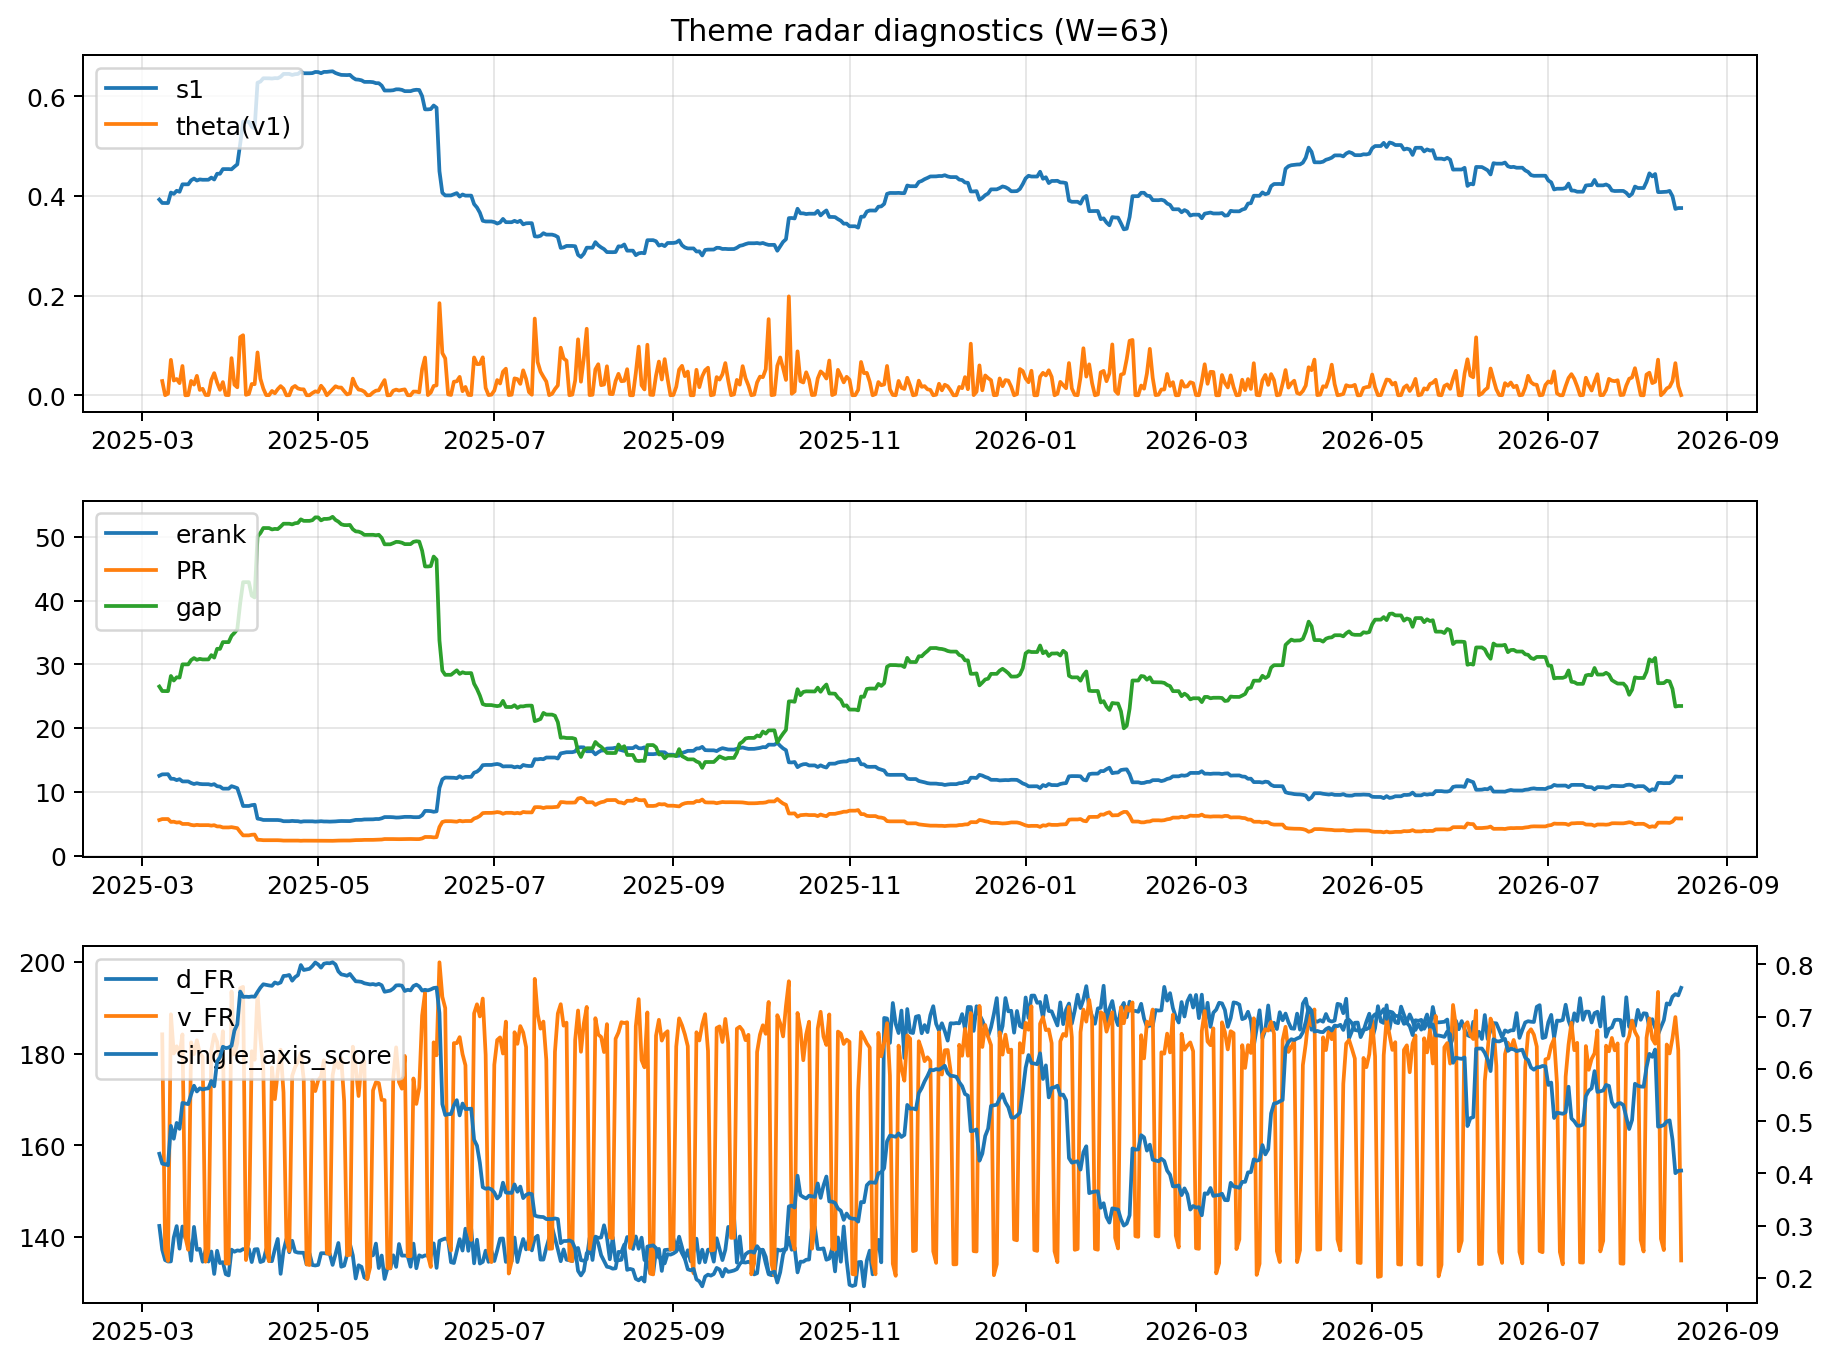
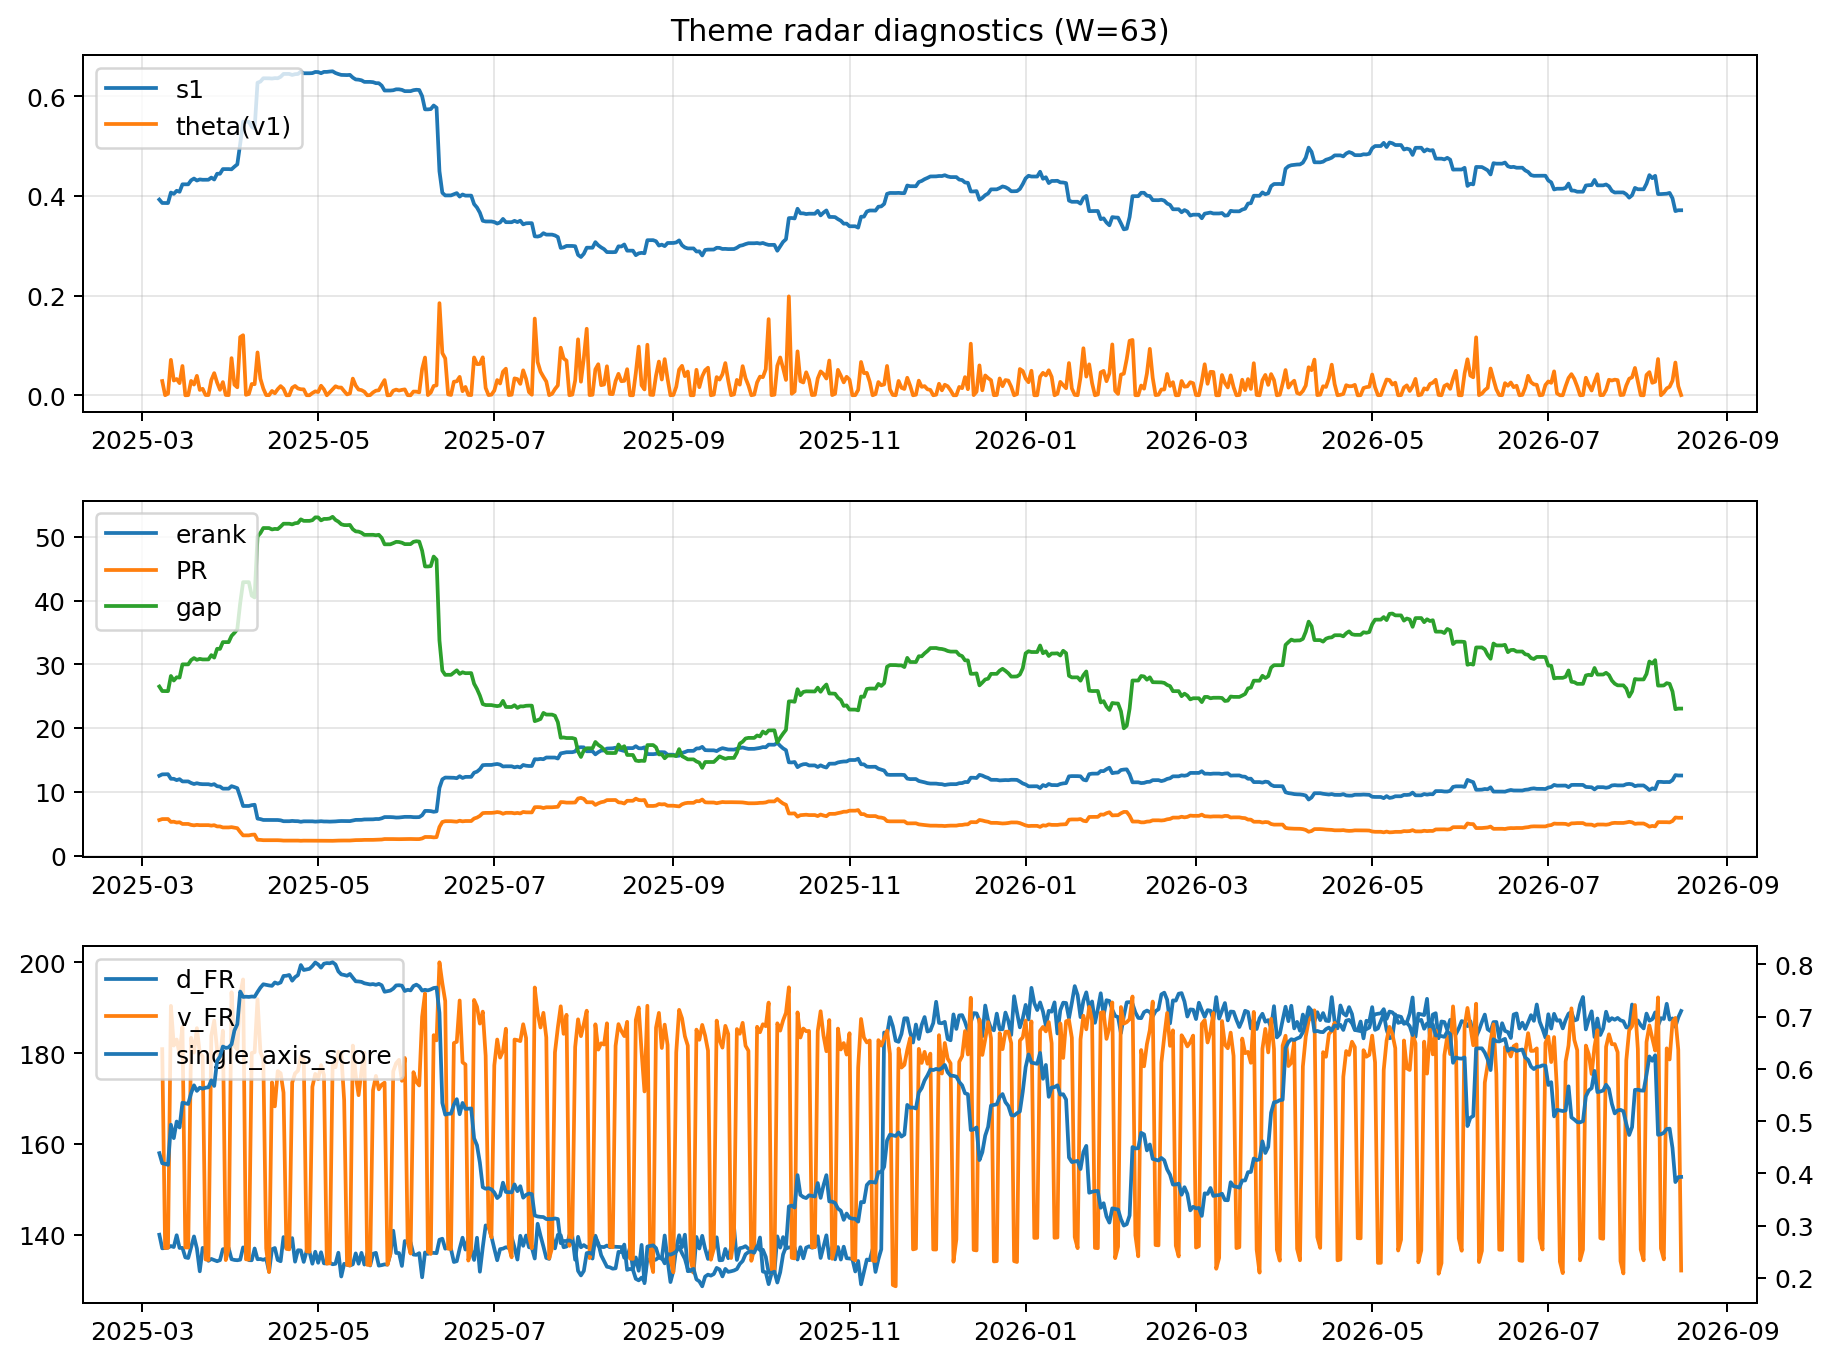
log: 2026-08-16 | sha256:b8503f48b523d3f5ec09501ded85816984ab3dff79d64f96f72c8e53d19d3c06

diff --git a/logs/2026-08-16.md b/logs/2026-08-16.md
@@ -3,44 +3,44 @@
 ![diagnostic W63](../assets/diagnostic/2026-08-16_W63.png)
 
 ## Leaders (v1) — W=63
-- **Nuclear_Uranium** (0.0900837035563562)
-- Semis (0.0742944965787559)
-- Quantum (0.0645063588399254)
+- **Nuclear_Uranium** (0.0883090565298773)
+- Semis (0.0751735810985604)
+- Quantum (0.065046591627122)
 
 ## Challengers — W=63
-**v2:** Rates (0.0854596220395814), Software_Cloud (0.0793445278197772), Semis (0.0752474333303282)
-**v3:** Metals (0.1190206888445331), Crypto (0.076979530439989), MegaCap_AI (0.0663007084570029)
+**v2:** Rates (0.0855116211547264), Software_Cloud (0.0802919993782086), Semis (0.0733703948939315)
+**v3:** Metals (0.1162936685283868), Crypto (0.0746757736369294), MegaCap_AI (0.0701998968860247)
 
 ## Migration (20D slope) — W=63
 **Top risers:**
-- axis_Commodities: 0.0005578473998093
-- axis_Semis: 0.000389838940704
-- axis_Quantum: 0.0003671792202733
-- axis_Grid_Power: 0.0002204295498298
-- axis_Sector_Energy: 0.0002113441980691
-- axis_Sector_Health: 0.0001740083135849
-- axis_Space: 0.0001503889963805
-- axis_Genomics_Bio: 0.0001469739161894
-- axis_DataCenter_Infra: 0.0001124710791575
-- axis_Defense: 0.0001104146761799
+- axis_Commodities: 0.0005572083609859
+- axis_Semis: 0.0004227036560485
+- axis_Quantum: 0.0003841095511496
+- axis_Grid_Power: 0.0002463438771795
+- axis_Sector_Energy: 0.0002140268041749
+- axis_Sector_Health: 0.0001797481636982
+- axis_Space: 0.0001618120883494
+- axis_Robotics: 0.0001187324686593
+- axis_DataCenter_Infra: 0.0001183418445709
+- axis_Genomics_Bio: 0.0001161158190717
 
 **Top fallers:**
-- axis_Credit: -0.0001212685344555
-- axis_Sector_Materials: -0.000131176245315
-- axis_USD: -0.0001440620095991
-- axis_Sector_Comm: -0.0001531486157973
-- axis_Vol: -0.0001668725056837
-- axis_MegaCap_AI: -0.0002311698399268
-- axis_Miners: -0.000254826328696
-- axis_Crypto: -0.0002642425419823
-- axis_Rates: -0.0004653761992431
-- axis_Metals: -0.0006717357003707
+- axis_Sector_Materials: -0.0001347972137371
+- axis_USD: -0.0001427585717352
+- axis_Sector_Comm: -0.0001596170918335
+- axis_Vol: -0.0001649248046189
+- axis_Credit: -0.0001794603277228
+- axis_MegaCap_AI: -0.0002238347332747
+- axis_Miners: -0.0002514865225693
+- axis_Crypto: -0.0002679550247914
+- axis_Rates: -0.0004692731651381
+- axis_Metals: -0.0006686340067717
 
 ## Risk line (W=63)
-- s1: 0.3756187666788542
-- theta_v1: 0.0004544254685081
-- v_FR: 134.8349417361001
-- single_axis_score: 0.4053030303030303
+- s1: 0.3712118535045293
+- theta_v1: 0.0004505751328389
+- v_FR: 132.18362391356266
+- single_axis_score: 0.3931818181818182
 
 ## Interpretation
 **Regime:** `theme_migration`
@@ -48,7 +48,7 @@
 - Action: Tomorrow watchlist: Commodities, Semis, Quantum, Grid_Power, Sector_Energy + v2_top1=Rates
 - Action: Hedge note: normal correlation stability.
 
-- Percentiles (W=63 history): vfr_pct=0.12, theta_pct=0.17, s1_pct=0.34, score_pct=0.35.
+- Percentiles (W=63 history): vfr_pct=0.02, theta_pct=0.17, s1_pct=0.33, score_pct=0.34.
 
 ---
[2 lines of base64/hex data omitted]
